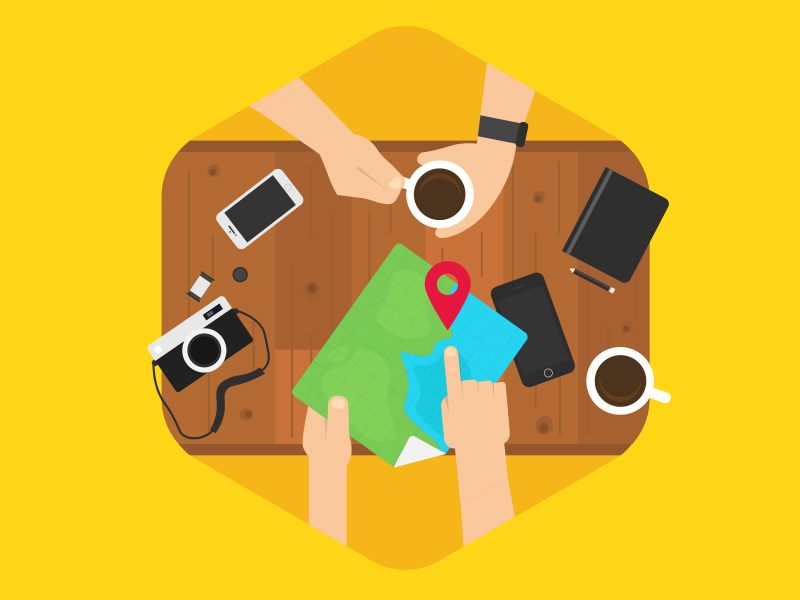
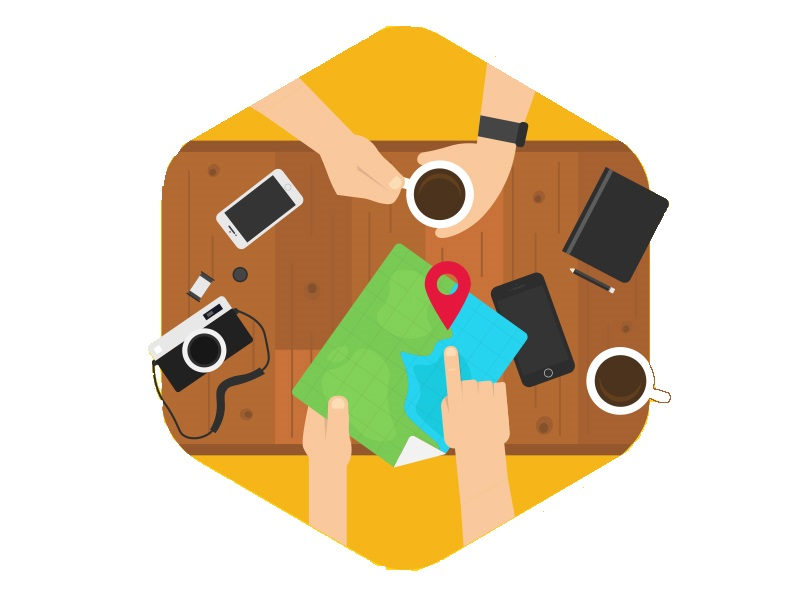
make background and image white

diff --git a/src/screens/WelcomeScreen.js b/src/screens/WelcomeScreen.js
@@ -12,7 +12,7 @@ class WelcomeScreen extends Component {
           flex: 1,
           alignItems: 'center',
           justifyContent: 'space-evenly',
-          backgroundColor: '#FFD618'
+          backgroundColor: '#FFFFFF'
         }}
       >
         <Image
